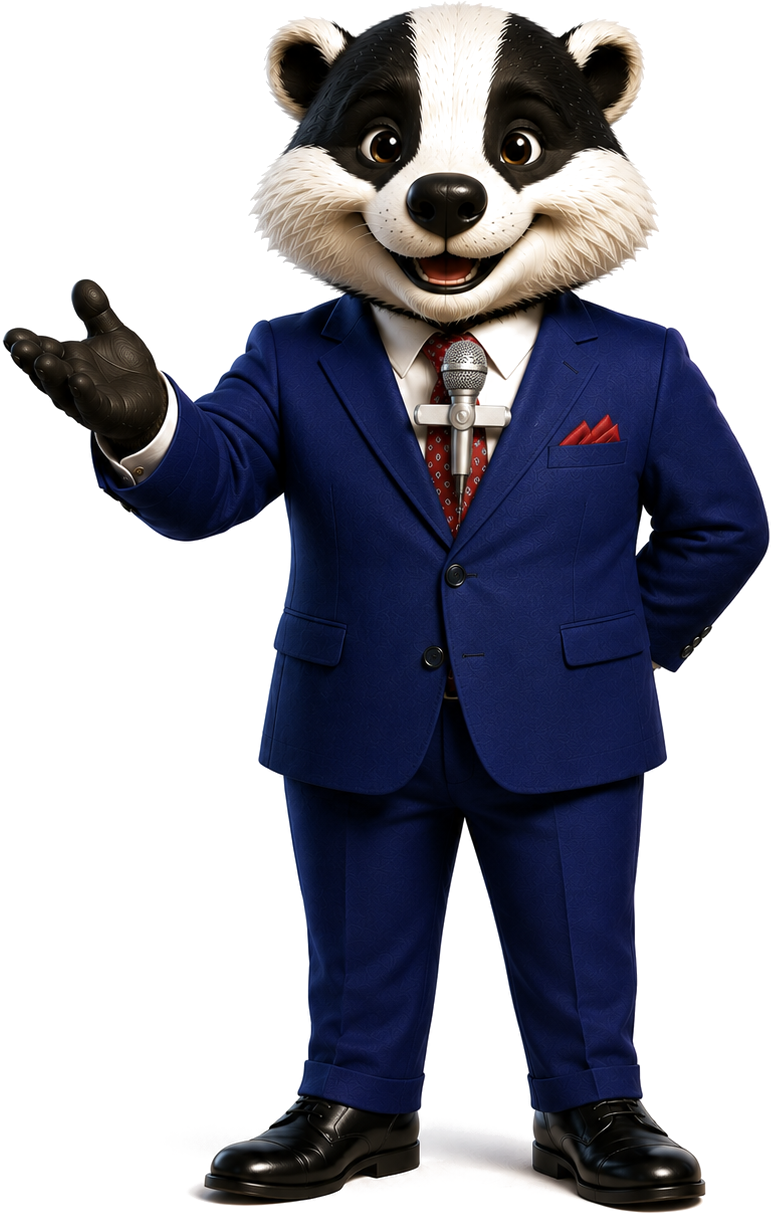
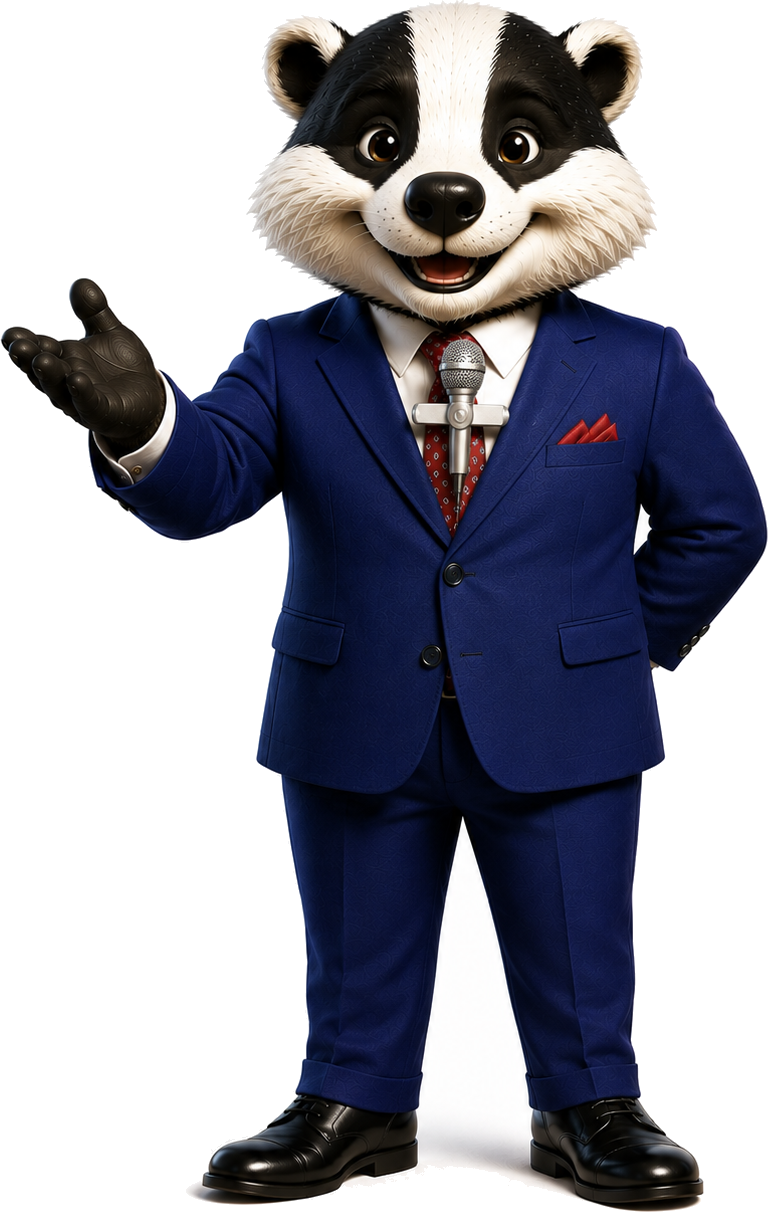
Add files via upload

diff --git a/styles.css b/styles.css
@@ -62,7 +62,8 @@ button{font:inherit}
   gap:18px;
   align-items:center;
   min-height:0;
-  height:31%;
+  height:34%;
+  min-height:250px;
 }
 .info-stack{
   display:flex;
@@ -103,21 +104,29 @@ button{font:inherit}
 .timer-ring small{font-size:10px;font-weight:900;margin-top:2px}
 
 .logo-stage{
-  height:100%;display:flex;align-items:center;justify-content:center;overflow:hidden;
+  height:100%;
+  display:flex;
+  align-items:center;
+  justify-content:center;
+  overflow:hidden;
+  padding:4px 24px 10px 10px;
 }
 .main-logo{
   display:block;
-  width:min(100%,680px);
-  max-height:100%;
+  width:auto;
+  height:auto;
+  max-width:92%;
+  max-height:94%;
   object-fit:contain;
   filter:drop-shadow(0 14px 22px rgba(0,0,0,.38));
-  transform:scale(1.03);
+  transform:none;
+  border-radius:20px;
 }
 
 .question-box{
   flex:0 0 auto;
   min-height:126px;
-  margin:10px 0 14px;
+  margin:14px 0 14px;
   padding:10px 22px 16px;
   display:flex;flex-direction:column;justify-content:center;align-items:center;
   text-align:center;
@@ -248,8 +257,8 @@ button{font:inherit}
 .right-zone{
   height:100%;
   display:grid;
-  grid-template-columns:minmax(260px,1.15fr) minmax(165px,.72fr);
-  gap:10px;
+  grid-template-columns:minmax(300px,1.08fr) minmax(210px,.68fr);
+  gap:18px;
   align-items:end;
 }
 .ladder-panel{
@@ -310,18 +319,24 @@ button{font:inherit}
 
 .badger-wrap{
   align-self:end;
-  height:79%;
+  height:76%;
+  min-height:520px;
   display:flex;
   align-items:flex-end;
   justify-content:center;
   pointer-events:none;
+  overflow:visible;
+  padding-right:4px;
 }
 .badger{
   display:block;
+  width:auto;
+  height:auto;
   max-width:100%;
   max-height:100%;
   object-fit:contain;
-  filter:drop-shadow(0 14px 20px rgba(0,0,0,.38));
+  object-position:center bottom;
+  filter:drop-shadow(0 16px 20px rgba(0,0,0,.42));
 }
 
 .overlay{
@@ -378,4 +393,10 @@ button{font:inherit}
   .right-zone{grid-template-columns:1fr;min-height:auto}
   .badger-wrap{height:420px}
   .ladder-panel{justify-self:stretch}
+}
+
+@media (min-width: 1500px){
+  .hero-row{grid-template-columns:145px minmax(0,1fr); min-height:270px}
+  .main-logo{max-width:78%; max-height:94%}
+  .question-box{margin-top:18px}
 }

diff --git a/README.md b/README.md
@@ -1,17 +1,11 @@
-# Show do Chopão — V3
+# Show do Chopão — V4
 
-Nova prévia com a identidade visual atualizada.
+Correções desta versão:
+- Logo reposicionada e redimensionada para não sobrepor a pergunta.
+- Logo recortada para ocupar melhor o espaço no topo.
+- Texugo com fundo removido novamente usando recorte seguro de borda, preservando o pelo branco.
+- Texugo reposicionado ao lado da Escada do Chopão com mais espaço.
+- Ajustes de proporção para monitores/TVs widescreen.
 
-## Mudanças
-- Logo nova do Show do Chopão no topo do jogo.
-- Texugo apresentador ao lado da Escada do Chopão.
-- Layout refeito para ficar mais próximo da referência visual do game show.
-- Bloco de pergunta + cronômetro.
-- Escada de 15 níveis de R$ 10,00 a R$ 500,00.
-- Botões 50/50, Troca Pergunta, Público, Errar, Parar e Acertar.
-- Perguntas de teste apenas para validar a interface.
-
-## GitHub / Vercel
-Envie todo o conteúdo do ZIP para a raiz do repositório.
-No Vercel, importe como projeto estático / Framework Preset: Other.
-Não é necessário Build Command.
+## Deploy
+Suba todo o conteúdo do ZIP na raiz do repositório GitHub e faça o deploy normal no Vercel.
